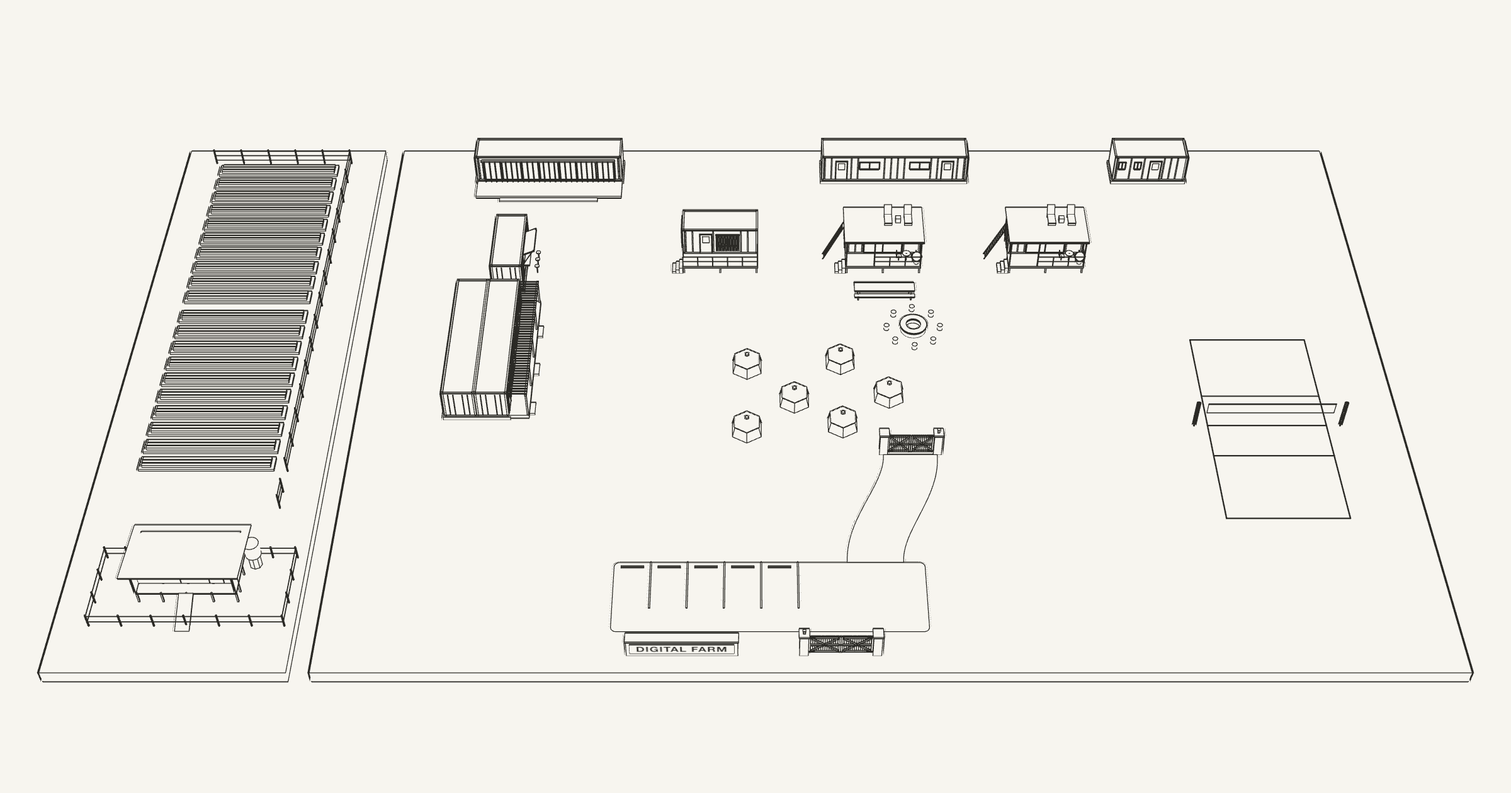
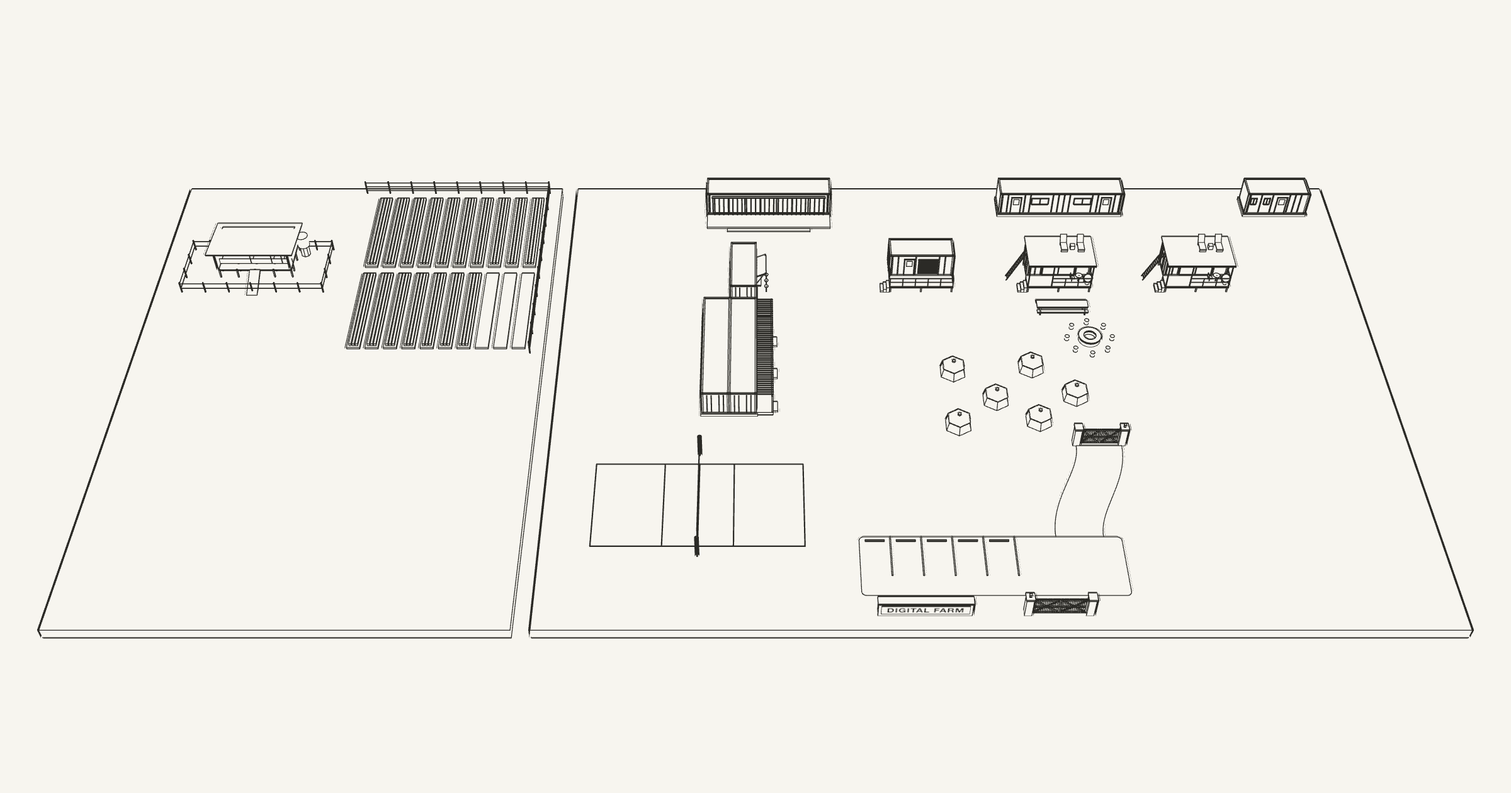
feat(home): land band runs west, court beside the parking, Watch film
The founder: the field and the livestock lie horizontally, from the study
room to the first guest room, and the land goes on past the drawing; the
volleyball court belongs between the guest rooms and the parking. The 2D
turns the field to run west with the livestock beyond it and an arrow to
the master plan; the court turns east-west below the guest rooms. The 3D
reads the same numbers and is re-rendered. The hero's button plays the
courtyard film full screen, and the hamburger's lines are shorter. D-034.

Claude-Session: https://claude.ai/code/session_01S6J7Hj425bwF9AGDTf46mq

diff --git a/scripts/site/render/compound.html b/scripts/site/render/compound.html
@@ -8,9 +8,9 @@
   sliding doors, red pipe railings with the deck stairs at their ends, a concrete cap on the fire pit,
   hexagonal pop-up tents. The studios follow the studio's hero (/en/studio, render/studio-hero.jpg), and the
   sign wall carries DIGITAL FARM in LED letters. Its neighbours stand beside it as the 2D draws them
-  (compound.json neighbours), from their own pages' data: the volleyball court (volleyball.json) on the lawn east, and,
-  on a separate piece of ground past the 2D's break, the vegetable field's nearest beds (farming plan.json) and
-  the livestock house and paddock (livestock.json). Rendered two ways:
+  (compound.json neighbours), from their own pages' data: the volleyball court (volleyball.json) on the lawn between the guest rooms and the
+  parking, and, on a separate piece of ground past the 2D's break, in one band beside the study room, the vegetable
+  field's nearest beds turned to run west (farming plan.json) and beyond them the livestock house and paddock (livestock.json). Rendered two ways:
 
     ?mode=line  line drawing in the page's ink        -> public/designs/compound/render/compound-line.png
     ?mode=real  paint, timber, stone, sun and shadow  -> public/designs/compound/render/compound-real.webp
@@ -455,9 +455,9 @@ function group(build, pos, rotY = 0) {
 // ------------------------------------------------------------ the site
 // As the 2D draws it: the compound on its ground, a model base, with no lake, road or trees (D-022).
 // the base reaches 2.5 m past the outermost buildings east and west
-// and past the neighbours: the livestock paddock west, the volleyball court's free zone east
-const MX0 = Math.min(N.livestock.paddock[0], N.field.corner[0] - 10.5) - 2.5
-const MX1 = Math.max(...C.units.map((u) => u.box[2]), N.volleyball.at[0] + VB.court.w / 2 + VB.court.free) + 2.5
+// and past the neighbours: the livestock paddock west; east, the outermost building (the court is inside)
+const MX0 = N.livestock.paddock[0] - 2.5
+const MX1 = Math.max(...C.units.map((u) => u.box[2])) + 2.5
 const [MZ0, MZ1] = [-8.4, 45.6]
 // one lawn over the whole base, its top level with the old courtyard lawn: no courtyard outline, as the 2D;
 // the base splits at the 2D's break, where the field and the livestock are drawn close
@@ -798,19 +798,26 @@ for (const [id, windows] of [["galley", [[3.2, 4.8], [7.4, 9.0]]], ["bath", [[0.
 
 // ------------------------------------------------------------ the neighbours, drawn close (compound.json neighbours)
 const G = 0.035 // the lawn's top
-// The volleyball court (/en/volleyball): white tape lines on the grass, its long side along z as on the 2D,
-// the net over the centre line between two posts 1 m outside the side lines.
+// The volleyball court (/en/volleyball): white tape lines on the grass, the net over the centre line between two
+// posts 1 m outside the side lines. Drawn in the court's own frame (u across, v along its length) and laid with
+// its long side along z, or along x when it is turned (compound.json), as on the 2D.
 {
   const [cx, cz] = N.volleyball.at, c = VB.court, t = c.line
-  const [x0, x1, z0, z1] = [cx - c.w / 2, cx + c.w / 2, cz - c.l / 2, cz + c.l / 2]
-  const tape = (xa, za, xb, zb) => blk(xa, za, xb, zb, G, G + 0.008, "tape")
-  tape(x0, z0, x0 + t, z1); tape(x1 - t, z0, x1, z1); tape(x0, z0, x1, z0 + t); tape(x0, z1 - t, x1, z1)
-  for (const d of [-c.attack, 0, c.attack]) tape(x0, cz + d - t / 2, x1, cz + d + t / 2)
-  const n = VB.net, p = VB.posts, px = c.w / 2 + p.out
-  for (const s of [-1, 1]) cyl(cx + s * px, cz, p.d / 2, G, p.h, "white", 12)
-  blk(cx - n.l / 2, cz - 0.004, cx + n.l / 2, cz + 0.004, G + n.men - n.d, G + n.men - n.top, "net")
-  blk(cx - n.l / 2, cz - 0.01, cx + n.l / 2, cz + 0.01, G + n.men - n.top, G + n.men, "tape")
-  if (!LINE) add(new THREE.SphereGeometry(VB.ball.r, 16, 12), "tape", { pos: [cx + VB.ball.y, G + VB.ball.r, cz + VB.ball.x] })
+  const turn = N.volleyball.turn
+  const W = (u, v) => (turn ? [cx + v, cz + u] : [cx + u, cz + v])
+  const box = (ua, va, ub, vb, y0, y1, name) => blk(...W(ua, va), ...W(ub, vb), y0, y1, name)
+  const [u0, u1, v0, v1] = [-c.w / 2, c.w / 2, -c.l / 2, c.l / 2]
+  const tape = (ua, va, ub, vb) => box(ua, va, ub, vb, G, G + 0.008, "tape")
+  tape(u0, v0, u0 + t, v1); tape(u1 - t, v0, u1, v1); tape(u0, v0, u1, v0 + t); tape(u0, v1 - t, u1, v1)
+  for (const d of [-c.attack, 0, c.attack]) tape(u0, d - t / 2, u1, d + t / 2)
+  const n = VB.net, p = VB.posts, pu = c.w / 2 + p.out
+  for (const s of [-1, 1]) cyl(...W(s * pu, 0), p.d / 2, G, p.h, "white", 12)
+  box(-n.l / 2, -0.004, n.l / 2, 0.004, G + n.men - n.d, G + n.men - n.top, "net")
+  box(-n.l / 2, -0.01, n.l / 2, 0.01, G + n.men - n.top, G + n.men, "tape")
+  if (!LINE) {
+    const [bx, bz] = W(VB.ball.y, VB.ball.x)
+    add(new THREE.SphereGeometry(VB.ball.r, 16, 12), "tape", { pos: [bx, G + VB.ball.r, bz] })
+  }
 }
 
 // The livestock house (/en/livestock), its open side toward the gates: x_c = x + local x, z = y - local y.
@@ -852,27 +859,27 @@ const G = 0.035 // the lawn's top
 }
 
 // The vegetable field (/en/farming): its blocks nearest the compound, each bed 1.2 x 10 m and 20 cm high, crop rows
-// on the beds that grow this season, the fence on the compound side with the gate onto the main path.
+// on the beds that grow this season. Turned a quarter as on the 2D (compound.json): plan.json's y runs west, its x
+// toward the gates. The fence on the two sides toward the compound; the field goes on past the far ones.
 {
   const [cx, cz] = N.field.corner, [, top, east] = FP.fence
-  const X = (x) => cx + x - east, Z = (y) => cz - (y - top)
+  const M = (x, y) => [cx - (y - top), cz - (east - x)]
+  const box = (xa, ya, xb, yb, y0, y1, name) => blk(...M(xa, ya), ...M(xb, yb), y0, y1, name)
   const beds = FP.beds.filter((b) => N.field.blocks.includes(b.block))
   beds.forEach((b, k) => {
-    blk(X(b.x), Z(b.y), X(b.x + b.w), Z(b.y + b.h), G, G + 0.2, "bed")
+    box(b.x, b.y, b.x + b.w, b.y + b.h, G, G + 0.2, "bed")
     if (b.crop === "rest") return
-    for (const r of [0.3, 0.6, 0.9]) blk(X(b.x + 0.25), Z(b.y + r - 0.11), X(b.x + b.w - 0.25), Z(b.y + r + 0.11), G + 0.2, G + 0.42, k % 3 ? "crop" : "crop2")
+    for (const r of [0.3, 0.6, 0.9]) box(b.x + 0.25, b.y + r - 0.11, b.x + b.w - 0.25, b.y + r + 0.11, G + 0.2, G + 0.42, k % 3 ? "crop" : "crop2")
   })
   const shown = FP.blocks.filter((b) => N.field.blocks.includes(b.id))
-  const bottom = Math.max(...shown.map((b) => b.y + b.h)) + N.field.cut, west = Math.min(...shown.map((b) => b.x)) - 0.5
-  const [g0, g1] = [FP.mainY - FP.main / 2, FP.mainY + FP.main / 2]
+  const far = Math.max(...shown.map((b) => b.y + b.h)) + N.field.cut, west = Math.min(...shown.map((b) => b.x)) - 0.5
   const fence = (a, b) => {
     const len = Math.hypot(b[0] - a[0], b[1] - a[1]), n = Math.max(1, Math.ceil(len / 2.5))
     for (let k = 0; k <= n; k++) cyl(a[0] + ((b[0] - a[0]) * k) / n, a[1] + ((b[1] - a[1]) * k) / n, 0.05, G, 1.5, "slat", 6)
     for (const y of [0.4, 0.9, 1.4]) pipe([a[0], y, a[1]], [b[0], y, b[1]], 0.012, "wire")
   }
-  fence([X(west), Z(top)], [X(east), Z(top)])
-  fence([X(east), Z(top)], [X(east), Z(g0)])
-  fence([X(east), Z(g1)], [X(east), Z(bottom)])
+  fence(M(west, top), M(east, top))
+  fence(M(east, top), M(east, far))
 }
 
 // ------------------------------------------------------------ camera: the front view

diff --git a/src/components/home/compound-plan.tsx b/src/components/home/compound-plan.tsx
@@ -34,13 +34,13 @@ const WAY = spreadBy(compound.spread.wayIn)
 // The neighbours are placed after the spread already (compound.json neighbours): only turned top to bottom.
 const N = compound.neighbours
 const T = ([x, y]: Point) => [x, SIZE - y]
-// The frame follows the spread and the neighbours: from the livestock paddock's far fence to past the
-// volleyball court's free zone.
+// The frame follows the spread and the neighbours: from the arrow that carries the land on westward to past
+// the public bathroom, the outermost building east.
 const court = volleyball.court
 const VIEW = [
-  Math.min(N.livestock.paddock[0], N.field.corner[0] - 10) - 1.5,
+  N.continues.at[0] - N.continues.length - 1.5,
   0.6,
-  Math.max(...compound.units.map((u) => B(u.box)[2]), N.volleyball.at[0] + court.w / 2 + court.free) + 1.5,
+  Math.max(...compound.units.map((u) => B(u.box)[2])) + 1.5,
   55.5,
 ]
 
@@ -367,24 +367,28 @@ function Outdoor() {
   )
 }
 
-// The volleyball court on the lawn east of the compound, in /en/volleyball's numbers (FIVB rules): the 18 x 9 m
-// court inside its 3 m free zone, the net over the centre line, an attack line 3 m each side of it, the posts
-// 1 m outside the side lines. Turned so its long side runs up the page, beside the courtyard.
+// The volleyball court on the lawn between the guest rooms and the parking, in /en/volleyball's numbers (FIVB
+// rules): the 18 x 9 m court inside its 3 m free zone, the net over the centre line, an attack line 3 m each side
+// of it, the posts 1 m outside the side lines. Turned (compound.json) so its long side runs across the page.
 function Volleyball() {
   const [cx, cy] = T(N.volleyball.at)
-  const [hw, hl, free] = [court.w / 2, court.l / 2, court.free]
+  const turn = N.volleyball.turn
+  const [hw, hl, free] = turn ? [court.l / 2, court.w / 2, court.free] : [court.w / 2, court.l / 2, court.free]
   const [x0, y0, x1, y1] = [cx - hw, cy - hl, cx + hw, cy + hl]
-  const post = hw + volleyball.posts.out
+  const post = (turn ? hl : hw) + volleyball.posts.out
+  // a line across the court at distance d from the net, and the net between its posts
+  const across = (d: number, reach: number) =>
+    turn ? { x1: f(cx + d), x2: f(cx + d), y1: f(cy - reach), y2: f(cy + reach) } : { x1: f(cx - reach), x2: f(cx + reach), y1: f(cy + d), y2: f(cy + d) }
   return (
     <g>
       <rect {...at([x0 - free, y0 - free, x1 + free, y1 + free])} {...thin} strokeDasharray="3 3" />
       <rect {...at([x0, y0, x1, y1])} {...medium} />
       {[-court.attack, court.attack].map((d) => (
-        <line key={d} x1={f(x0)} x2={f(x1)} y1={f(cy + d)} y2={f(cy + d)} {...thin} />
+        <line key={d} {...across(d, turn ? hl : hw)} {...thin} />
       ))}
-      <line x1={f(cx - post)} x2={f(cx + post)} y1={f(cy)} y2={f(cy)} stroke="currentColor" strokeWidth={0.1} />
+      <line {...across(0, post)} stroke="currentColor" strokeWidth={0.1} />
       {[-post, post].map((d) => (
-        <circle key={d} cx={f(cx + d)} cy={f(cy)} r={0.18} fill="currentColor" />
+        <circle key={d} cx={f(turn ? cx : cx + d)} cy={f(turn ? cy + d : cy)} r={0.18} fill="currentColor" />
       ))}
       <Dimension a={[x1, y0]} b={[x1, y1]} offset={1.4} />
       <Dimension a={[x0, y1]} b={[x1, y1]} offset={1.4} />
@@ -397,36 +401,53 @@ function Volleyball() {
   )
 }
 
-// West of the compound, past the break: the vegetable field's blocks nearest it (/en/farming), each bed 1.2 x 10 m
-// as plan.json lays them, the fence on the compound side with the gate onto the main path. plan.json's y runs
-// toward the gates, so a field point (x, y) sits at corner + (x - fence east, y - fence top) on the page.
+// West of the compound, past the break, in the band of land from the study room to the first guest room: the
+// vegetable field's blocks nearest it (/en/farming), each bed 1.2 x 10 m as plan.json lays them, turned a quarter
+// so the field runs west: plan.json's y (toward its far end) runs left, its x (its fence's east side at the top)
+// runs down the page. Its fence on the two sides toward the compound; the field goes on past both break lines.
 function Field() {
   const [fx, fy] = T(N.field.corner)
   const [, top, east] = plan.fence
-  const F = (x: number, y: number) => [f(fx + x - east), f(fy + y - top)]
+  const F = (x: number, y: number) => [f(fx - (y - top)), f(fy + (east - x))]
   const shown = plan.blocks.filter((b) => N.field.blocks.includes(b.id))
   const beds = plan.beds.filter((b) => N.field.blocks.includes(b.block))
-  const bottom = Math.max(...shown.map((b) => b.y + b.h)) + N.field.cut
+  const far = Math.max(...shown.map((b) => b.y + b.h)) + N.field.cut
   const west = Math.min(...shown.map((b) => b.x)) - 0.5
-  const [gate0, gate1] = [plan.mainY - plan.main / 2, plan.mainY + plan.main / 2]
   const [ex, ey0] = F(east, top)
-  const [wx, ey1] = F(west, bottom)
-  const [, g0] = F(east, gate0)
-  const [, g1] = F(east, gate1)
+  const [wx, ey1] = F(west, far)
   return (
     <g>
       {beds.map((b) => {
-        const [x0, y0] = F(b.x, b.y)
-        return <rect key={b.id} {...at([x0, y0, x0 + b.w, y0 + b.h])} {...thin} strokeDasharray={b.crop === "rest" ? "3 3" : undefined} />
+        const [x0, y0] = F(b.x + b.w, b.y + b.h)
+        return <rect key={b.id} {...at([x0, y0, x0 + b.h, y0 + b.w])} {...thin} strokeDasharray={b.crop === "rest" ? "3 3" : undefined} />
       })}
-      <path d={`M${wx} ${ey0}H${ex}V${g0}M${ex} ${g1}V${ey1}`} {...medium} />
+      <path d={`M${wx} ${ey0}H${ex}V${ey1}`} {...medium} />
+      <Zigzag a={[wx, ey0]} b={[wx, ey1]} />
       <Zigzag a={[wx, ey1]} b={[ex, ey1]} />
       <Page href={N.field.page}>
-        <text x={f(ex + 1.3)} y={f((ey0 + ey1) / 2)} textAnchor="middle" transform={`rotate(-90 ${f(ex + 1.3)} ${f((ey0 + ey1) / 2)})`} style={label}>
+        <text x={f((wx + ex) / 2)} y={f(ey1 + 1.4)} textAnchor="middle" style={label}>
           VEGETABLE FIELD · {plan.bedsTotal} BEDS
         </text>
       </Page>
     </g>
+  )
+}
+
+// At the drawing's west edge, the land going on: an arrow pointing out of the drawing, to the master plan,
+// which draws all of it (founder, 2026-10-29).
+function Continues() {
+  const [x, y] = T(N.continues.at)
+  const end = x - N.continues.length
+  return (
+    <Page href={N.continues.page}>
+      <path d={`M${f(x)} ${f(y)}H${f(end)}M${f(end + 0.6)} ${f(y - 0.4)}L${f(end)} ${f(y)}L${f(end + 0.6)} ${f(y + 0.4)}`} {...medium} />
+      <text x={f(end)} y={f(y - 1)} style={small}>
+        CONTINUED
+      </text>
+      <text x={f(end)} y={f(y + 1.5)} style={{ ...small, fontWeight: 500 }}>
+        MASTER PLAN
+      </text>
+    </Page>
   )
 }
 
@@ -482,7 +503,7 @@ function Break() {
   const x = N.break
   return (
     <g>
-      <Zigzag a={[x, 2]} b={[x, 52]} />
+      <Zigzag a={[x, 1]} b={[x, 27]} />
       <text x={f(x - 0.5)} y={14} textAnchor="middle" transform={`rotate(-90 ${f(x - 0.5)} 14)`} style={{ ...small, fontWeight: 500, stroke: PAGE, strokeWidth: 0.6, paintOrder: "stroke" }}>
         DRAWN CLOSE · ON THE LAND THE FIELD IS {westGap} M AWAY
       </text>
@@ -524,6 +545,7 @@ export function CompoundPlan({ title, className }: { title: string; className?: 
       <Break />
       <Field />
       <Livestock />
+      <Continues />
 
       {/* The courtyard: no outline, only its name and the stone fire pit */}
       <circle cx={pitX} cy={pitY} r={pitR} {...medium} />

diff --git a/src/components/home/copy.ts b/src/components/home/copy.ts
@@ -35,6 +35,7 @@ export const copy = {
     headline: ["State of", "comfort"],
     walk: "Explore the farm",
     watch: "Watch film",
+    closeFilm: "Close the film",
     book: "Book a stay",
     scroll: "Scroll to explore",
   },
@@ -53,8 +54,8 @@ export const copy = {
   plans: {
     title: "2D",
     label:
-      "Plan of the compound, with the study room at the top and the gates at the bottom. At the top, the 40 ft study room on its deck, and beside it two buildings of their own: a 40 ft galley with a long worktop and two sinks, and a 20 ft public bathroom with two toilet rooms, two hand basins and a urinal. Below it, the row of three 20 ft containers on raised decks facing the courtyard: the farm office next to the bar, then two studios. Down the left, the bar and then the guest-room block in one line, their doors onto the veranda and the courtyard lawn: the stone fire pit with stools round it, a long timber table in front of the middle studio, and six small tents on a camping lawn between the guest rooms and the fire pit, ending at the fire. The study room's end is in line with the guest rooms. At the bottom, the inner gate, a rock road down to the green parking, and the outer gate beside the Digital Farm sign wall. On the lawn to the right, the volleyball court, 18 by 9 metres inside its 3 metre free zone, the net across its middle. To the left, past a break line, the neighbours drawn close: two blocks of the vegetable field's raised beds behind their fence, and below them the livestock house for six goats and four sheep at the top of its paddock. Every name on the plan links to its page.",
-    note: "Illustrative plan: containers drawn to size, layout not surveyed. The field and the livestock are drawn close; the master plan has their true distances.",
+      "Plan of the compound, with the study room at the top and the gates at the bottom. At the top, the 40 ft study room on its deck, and beside it two buildings of their own: a 40 ft galley with a long worktop and two sinks, and a 20 ft public bathroom with two toilet rooms, two hand basins and a urinal. Below it, the row of three 20 ft containers on raised decks facing the courtyard: the farm office next to the bar, then two studios. Down the left, the bar and then the guest-room block in one line, their doors onto the veranda and the courtyard lawn: the stone fire pit with stools round it, a long timber table in front of the middle studio, and six small tents on a camping lawn between the guest rooms and the fire pit, ending at the fire. The study room's end is in line with the guest rooms. At the bottom, the inner gate, a rock road down to the green parking, and the outer gate beside the Digital Farm sign wall. On the lawn between the guest rooms and the parking, the volleyball court, 18 by 9 metres inside its 3 metre free zone, its long side across the plan and the net across its middle. To the left, past a break line, the land drawn close in one band from the study room to the first guest room: two blocks of the vegetable field's raised beds behind their fence, turned to run west, and beyond them the livestock house for six goats and four sheep at the top of its paddock. At the left edge an arrow marks where the land goes on, on the master plan. Every name on the plan links to its page.",
+    note: "Illustrative plan: containers drawn to size, layout not surveyed. The field and the livestock are drawn close, and the land goes on past the left edge; the master plan has all of it at its true distances.",
   },
   // Under the 3D: every page the plan links to, with its guide and the printed PDFs (English and Kinyarwanda).
   references: {
@@ -112,8 +113,8 @@ export const copy = {
   },
   model: {
     title: "3D",
-    line: "Line drawing of the compound seen from the front, from high beyond the gates: the gate and the sign wall lettered DIGITAL FARM, the parking and the rock road up to the inner gate; inside, six small tents and the fire pit ringed with stools on the lawn, with the bar and the guest rooms on the left; beyond the long timber table, the office and two studios on raised decks, each studio under a flat roof that reaches over its deck, with a ladder at its end up to two loungers; at the back the study room, the galley and the public bathroom. On the right, the volleyball court marked out on the lawn, its net between two posts. On the left, on its own piece of ground, the neighbours drawn close: rows of raised vegetable beds behind a post-and-wire fence, and the livestock house under its sloping roof, a ramp down into its fenced paddock.",
-    real: "The same view rendered with materials and sunlight: corrugated containers in saffron yellow, oxide red and teal, timber decks with red pipe railings, the two studios after their hero render (dark steel roofs over their decks on slim black posts, glass sliders half open, a steel ladder up to timber loungers, a bistro table and a potted plant), the sign wall's DIGITAL FARM in warm LED letters, hexagonal canvas tents (one with a green fly), the stone fire pit with its concrete cap and log stools, a long timber table, timber gates braced in an X, grass parking and a road of granite setts. On the right, white tape lines and a black net on the grass of the volleyball court; on the left, raised beds of dark soil green with crop rows, and the timber livestock house on stilts under a dark iron roof, its water tank at one end and the paddock fenced in posts and wire.",
+    line: "Line drawing of the compound seen from the front, from high beyond the gates: the gate and the sign wall lettered DIGITAL FARM, the parking and the rock road up to the inner gate; inside, six small tents and the fire pit ringed with stools on the lawn, with the bar and the guest rooms on the left; beyond the long timber table, the office and two studios on raised decks, each studio under a flat roof that reaches over its deck, with a ladder at its end up to two loungers; at the back the study room, the galley and the public bathroom. Between the guest rooms and the parking, the volleyball court marked out on the lawn, its net between two posts. On the left, on its own piece of ground beside the study room, the land drawn close: rows of raised vegetable beds behind a post-and-wire fence, and beyond them the livestock house under its sloping roof, a ramp down into its fenced paddock.",
+    real: "The same view rendered with materials and sunlight: corrugated containers in saffron yellow, oxide red and teal, timber decks with red pipe railings, the two studios after their hero render (dark steel roofs over their decks on slim black posts, glass sliders half open, a steel ladder up to timber loungers, a bistro table and a potted plant), the sign wall's DIGITAL FARM in warm LED letters, hexagonal canvas tents (one with a green fly), the stone fire pit with its concrete cap and log stools, a long timber table, timber gates braced in an X, grass parking and a road of granite setts. Below the guest rooms, white tape lines and a black net on the grass of the volleyball court; on the left, raised beds of dark soil green with crop rows, and the timber livestock house on stilts under a dark iron roof, its water tank at one end and the paddock fenced in posts and wire.",
     caption: "Rendered from the design model",
   },
   courtyard: {

diff --git a/src/components/home/watch-film.tsx b/src/components/home/watch-film.tsx
@@ -1,0 +1,67 @@
+"use client"
+
+import * as React from "react"
+import { Play, X } from "lucide-react"
+
+import { VIDEOS } from "./assets.generated"
+import { copy } from "./copy"
+
+// The hero's button: the courtyard film (the orbit clip of 2026-10-25, its upright cut on portrait screens)
+// full screen in a native <dialog>, so Escape and the top layer come with it. The video loads only when opened.
+export function WatchFilm({ className }: { className?: string }) {
+  const dialog = React.useRef<HTMLDialogElement>(null)
+  const video = React.useRef<HTMLVideoElement>(null)
+  const [open, setOpen] = React.useState(false)
+  const film = VIDEOS.orbit
+  const upright = VIDEOS["orbit-portrait"]
+  if (!film) return null
+
+  const show = () => {
+    setOpen(true)
+    dialog.current?.showModal()
+  }
+  const hide = () => dialog.current?.close()
+
+  return (
+    <>
+      <button type="button" onClick={show} className={className}>
+        {copy.hero.watch}
+        <Play className="size-5" strokeWidth={1.5} aria-hidden />
+      </button>
+      <dialog
+        ref={dialog}
+        aria-label={copy.hero.watch}
+        onClose={() => {
+          video.current?.pause()
+          setOpen(false)
+        }}
+        onClick={(e) => e.target === e.currentTarget && hide()}
+        className="m-0 h-dvh max-h-none w-full max-w-none bg-black p-0 text-white backdrop:bg-black"
+      >
+        {open ? (
+          <video
+            ref={video}
+            autoPlay
+            loop
+            muted
+            playsInline
+            controls
+            className="size-full object-contain"
+          >
+            {upright ? <source src={upright.src} media="(orientation: portrait)" type="video/mp4" /> : null}
+            <source src={film.src} type="video/mp4" />
+          </video>
+        ) : null}
+        <p className="absolute top-5 left-4 text-xs tracking-[0.12em] uppercase opacity-80 md:left-10">{copy.captions.today}</p>
+        <button
+          type="button"
+          onClick={hide}
+          aria-label={copy.hero.closeFilm}
+          className="absolute top-3 right-2 inline-grid size-11 place-items-center rounded-full md:right-8"
+        >
+          <X className="size-6" aria-hidden />
+        </button>
+      </dialog>
+    </>
+  )
+}

diff --git a/src/components/home/hero.tsx b/src/components/home/hero.tsx
@@ -1,9 +1,10 @@
 import { getImageProps } from "next/image"
 import { Cormorant_Garamond } from "next/font/google"
-import { ArrowDown, MoveRight } from "lucide-react"
+import { ArrowDown } from "lucide-react"
 
 import { copy } from "./copy"
 import { HERO } from "./hero.generated"
+import { WatchFilm } from "./watch-film"
 
 // The guide's headline face: a fine, high-contrast serif in capitals. Only the hero uses it.
 const display = Cormorant_Garamond({ subsets: ["latin"], weight: "500", display: "swap" })
@@ -35,7 +36,7 @@ function HeroPicture() {
 }
 
 export function Hero() {
-  const { headline, walk, scroll } = copy.hero
+  const { headline, scroll } = copy.hero
   return (
     <section
       id="top"
@@ -65,13 +66,7 @@ export function Hero() {
           ))}
         </h1>
         <div className="farm-intro-3 mt-8 flex flex-wrap items-center gap-x-10 gap-y-5 text-[15px] tracking-[0.02em] uppercase">
-          <a
-            href="#plans"
-            className="text-soil inline-flex h-14 items-center gap-5 bg-[rgb(214_207_190/0.92)] px-7 backdrop-blur-sm transition-colors hover:bg-[rgb(226_220_205)]"
-          >
-            {walk}
-            <MoveRight className="size-6" strokeWidth={1.5} aria-hidden />
-          </a>
+          <WatchFilm className="text-soil inline-flex h-14 cursor-pointer items-center gap-5 bg-[rgb(214_207_190/0.92)] px-7 uppercase backdrop-blur-sm transition-colors hover:bg-[rgb(226_220_205)]" />
         </div>
       </div>
 

diff --git a/src/components/site-menu.tsx b/src/components/site-menu.tsx
@@ -55,7 +55,7 @@ export function SiteMenu({
         className={cn("inline-grid size-10 place-items-center rounded-full", className)}
       >
         {full ? (
-          <span aria-hidden className="flex w-6 flex-col gap-[7px]">
+          <span aria-hidden className="flex w-5 flex-col gap-1.5">
             <span className="h-0.5 rounded-full bg-current" />
             <span className="h-0.5 rounded-full bg-current" />
           </span>

diff --git a/study/execution/decision-log.md b/study/execution/decision-log.md
@@ -129,3 +129,6 @@ Context: the founder asked to replace the header's links with the farm's pages, 
 
 **D-033 · 2026-10-29 · The homepage 2D and 3D show the volleyball court, the vegetable field and the livestock beside the compound, every name links to its page, and an index lists every page, guide and PDF.**
 Context: the founder asked for the volleyball court, the livestock and the farming in the homepage's 2D and 3D, and for the homepage to reference every asset and doc. At true distances the field (26 m away) and the livestock (further, sited after the 200 m lake check) would shrink the compound to a quarter of the drawing. Decision: the founder chose "brought close": `compound.json` `neighbours` places each at its true size from its own page's data (volleyball.json, the farming plan.json, livestock.json) but close to the compound. The court stands on the lawn east, turned so its long side runs up the page; past a break line on the west sit the field's two nearest blocks of beds and the livestock house with its paddock. The 2D states the true distance, and the 3D splits its base at the same break. Every name on the 2D links to its page; a "Pages and guides" index under the 3D links each page, guide, Kinyarwanda twin and PDF; the vegetables, livestock, farm and master-plan guides link back to the plan, and site links in guides now render as links (`scripts/sync-docs.mjs`). Open: the court's real orientation and north; the livestock site after the lake measurement. Revisit with the survey.
+
+**D-034 · 2026-10-29 · On the homepage 2D and 3D the land runs west in one band beside the study room and goes on past the drawing, and the volleyball court moves between the guest rooms and the parking.**
+Context: the founder said the field and the livestock lie horizontally, not stacked up the page: the land starts level with the study room and reaches to the first guest room, and goes on further than the drawing can hold. He placed the court between the guest rooms and the parking. Decision: `compound.json` `neighbours` turns the field a quarter (its beds stand upright and its blocks run west) and sets the livestock beyond it in the same band; an arrow at the drawing's west edge, "continued", links to the master plan, which draws all of it. The court turns so its long side runs east-west on the lawn below the guest rooms, left of the parking. The break line shortens to the band. The 3D reads the same numbers and is re-rendered. The hero's button is now "Watch film" (the orbit clip of 2026-10-25, full screen), and the homepage header is a two-line hamburger opening the menu full screen. Open: whether the land's band matches the survey; the court's real place and orientation. Revisit with the survey.
